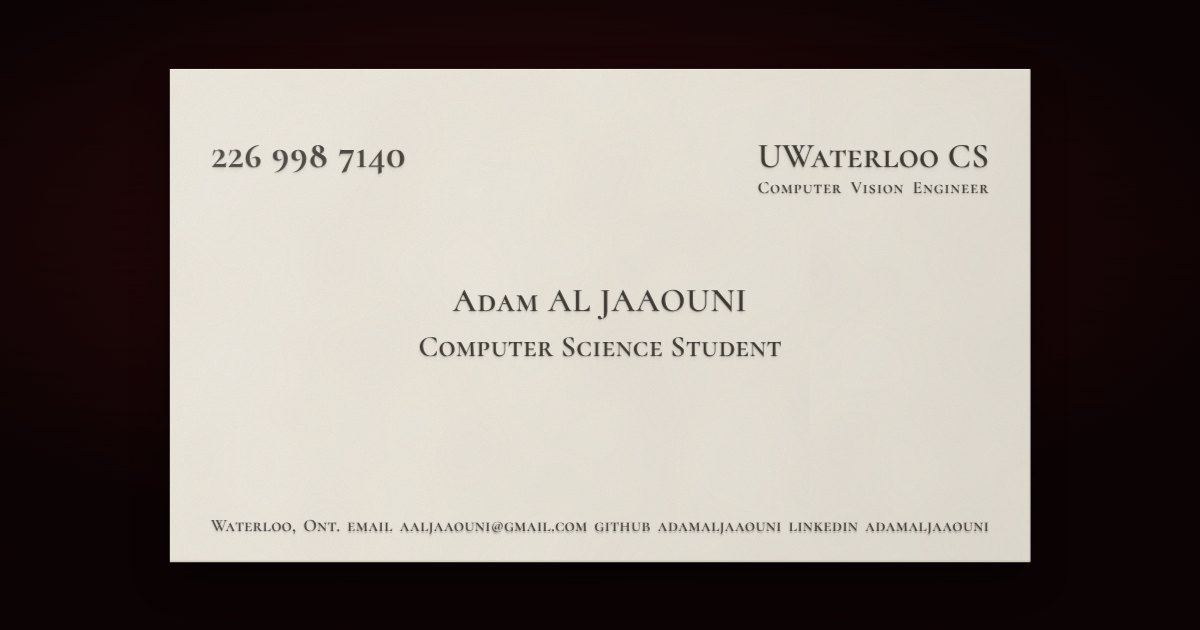
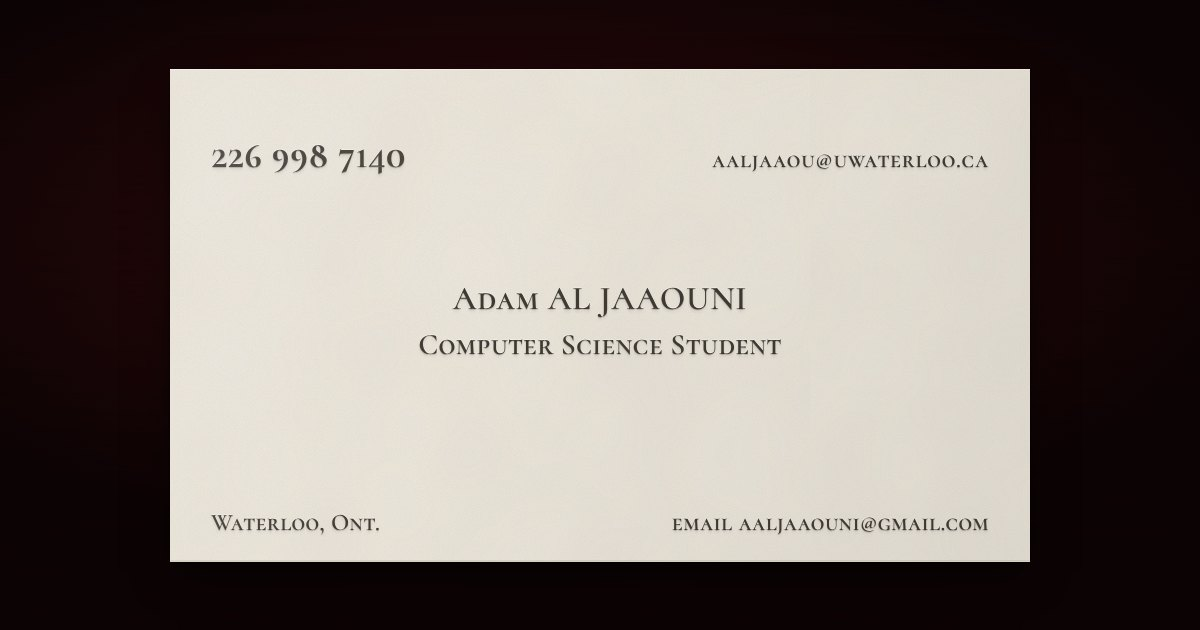
Put UWaterloo email top right; drop GitHub and LinkedIn
- The top-right corner (the firm's spot on Bateman's card) now shows
  aaljaaou@uwaterloo.ca instead of "UWaterloo CS / Computer Vision
  Engineer", sized so it doesn't outweigh the name.
- The bottom line drops the GitHub and LinkedIn links, leaving
  "Waterloo, Ont." and the Gmail address. With so little text it is set
  as two corners (city left, email right) instead of a justified line,
  echoing the top row.
- Re-centre the name block to the film card's proportions now that the
  top-right is a single line.
- Update the noscript fallback and regenerate the link-preview image.

Claude-Session: https://claude.ai/code/session_01Qbn2dEXcXHA3TEiaMxiFCK

Changed region(s): [[0.3392, 0.4524, 0.6475, 0.573], [0.1542, 0.8143, 0.8325, 0.8444], [0.5858, 0.2111, 0.8325, 0.3317]]

diff --git a/src/App.css b/src/App.css
@@ -158,14 +158,14 @@
 }
 
 /* ------------------------------------------------------------------ front
- * Proportions measured off Bateman's card: the name is no bigger than the
- * firm, the subtitle is set to the firm's exact width, and the contact line
- * runs margin to margin.
+ * Proportions measured off Bateman's card: the name is no bigger than what
+ * sits in the firm's spot (here, the UWaterloo email), and the bottom line
+ * spans margin to margin, echoing the top row.
  */
 
 .face--front {
   display: grid;
-  grid-template-rows: auto 17.5fr auto 31fr auto;
+  grid-template-rows: auto 20.5fr auto 28.5fr auto;
   padding: calc(20 * var(--pt)) calc(12 * var(--pt)) calc(7.6 * var(--pt));
   font-family: var(--font-card);
   font-weight: 600;
@@ -192,25 +192,11 @@
   white-space: nowrap;
 }
 
-/* Grid sized by the firm name alone; the subtitle stretches to that width. */
-.front-firm {
-  display: grid;
-  row-gap: calc(1.6 * var(--pt));
-}
-
-.front-firm-name {
-  font-size: calc(10.2 * var(--pt));
+/* Sized to sit in the firm's corner without outweighing the name. */
+.front-email {
+  font-size: calc(7 * var(--pt));
+  letter-spacing: 0.03em;
   white-space: nowrap;
-}
-
-.front-firm-sub {
-  width: 0;
-  min-width: 100%;
-  font-size: calc(5.1 * var(--pt));
-  letter-spacing: 0.05em;
-  white-space: nowrap;
-  text-align: justify;
-  text-align-last: justify;
 }
 
 .front-name {
@@ -237,16 +223,19 @@
 
 .front-foot {
   grid-row: 5;
+  display: flex;
+  justify-content: space-between;
+  align-items: baseline;
+  gap: calc(8 * var(--pt));
   font-style: normal;
-  font-size: calc(5.2 * var(--pt));
+  font-size: calc(7 * var(--pt));
   white-space: nowrap;
-  text-align: justify;
-  text-align-last: justify;
 }
 
 /* Bigger hit area for the small contact links without moving the layout. */
 .front-foot a,
-.front-phone {
+.front-phone,
+.front-email {
   padding-block: 0.35em;
   margin-block: -0.35em;
 }
@@ -419,16 +408,14 @@
     align-self: flex-start;
   }
 
-  .front-firm {
+  .front-email {
     align-self: flex-end;
   }
 
   .front-foot {
-    display: flex;
     flex-direction: column;
     align-items: flex-start;
     gap: calc(2.6 * var(--pt));
-    font-size: calc(6.6 * var(--pt));
   }
 
   .face--back {

diff --git a/src/components/CardFront.jsx b/src/components/CardFront.jsx
@@ -1,4 +1,3 @@
-import { Fragment } from "react";
 import { card, links } from "../data";
 
 export default function CardFront({ headingRef }) {
@@ -8,10 +7,9 @@ export default function CardFront({ headingRef }) {
         <a className="front-phone" href={links.phone}>
           {card.phone}
         </a>
-        <p className="front-firm">
-          <span className="front-firm-name">{card.firm}</span>
-          <span className="front-firm-sub">{card.firmSubtitle}</span>
-        </p>
+        <a className="front-email" href={links.uwEmail}>
+          {card.uwEmail}
+        </a>
       </div>
 
       <div className="front-name">
@@ -24,16 +22,9 @@ export default function CardFront({ headingRef }) {
 
       <address className="front-foot">
         <span>{card.city}</span>{" "}
-        {card.contacts.map(({ label, text, href }) => (
-          <Fragment key={label}>
-            <a
-              href={href}
-              {...(href.startsWith("http") && { target: "_blank", rel: "noopener" })}
-            >
-              {label} {text}
-            </a>{" "}
-          </Fragment>
-        ))}
+        <a href={card.contact.href}>
+          {card.contact.label} {card.contact.text}
+        </a>
       </address>
     </>
   );

diff --git a/src/data.js b/src/data.js
@@ -9,8 +9,7 @@
 export const links = {
   phone: "tel:+12269987140",
   email: "mailto:aaljaaouni@gmail.com",
-  github: "https://github.com/AdamAlJaaouni",
-  linkedin: "https://www.linkedin.com/in/adamaljaaouni/",
+  uwEmail: "mailto:aaljaaou@uwaterloo.ca",
   // Relative to the site root; resolved with import.meta.env.BASE_URL.
   resumePdf: "Adam-Al-Jaaouni-Resume.pdf"
 };
@@ -19,17 +18,12 @@ export const links = {
 // Strings stay in natural case: Cormorant SC draws lowercase as small caps.
 export const card = {
   phone: "226\u00a0998\u00a07140",
-  firm: "UWaterloo CS",
-  firmSubtitle: "Computer Vision Engineer",
+  uwEmail: "aaljaaou@uwaterloo.ca", // top right, where the film has the firm
   firstName: "Adam",
   lastName: "Al\u00a0Jaaouni",
   title: "Computer Science Student",
   city: "Waterloo, Ont.",
-  contacts: [
-    { label: "email", text: "aaljaaouni@gmail.com", href: links.email },
-    { label: "github", text: "adamaljaaouni", href: links.github },
-    { label: "linkedin", text: "adamaljaaouni", href: links.linkedin }
-  ]
+  contact: { label: "email", text: "aaljaaouni@gmail.com", href: links.email }
 };
 
 // Back of the card: experience only. Projects, skills and education live in

diff --git a/index.html b/index.html
@@ -29,12 +29,11 @@
     <noscript>
       <main style="max-width: 32rem; margin: 15vh auto; padding: 0 16px; color: #eee9df; font-family: Garamond, 'Times New Roman', serif; line-height: 1.5">
         <h1 style="font-weight: 600">Adam Al Jaaouni</h1>
-        <p>Computer Science Student, University of Waterloo · Computer Vision Engineer</p>
+        <p>Computer Science Student, University of Waterloo</p>
         <p>
           <a style="color: inherit" href="tel:+12269987140">226 998 7140</a> ·
-          <a style="color: inherit" href="mailto:aaljaaouni@gmail.com">aaljaaouni@gmail.com</a> ·
-          <a style="color: inherit" href="https://github.com/AdamAlJaaouni">GitHub</a> ·
-          <a style="color: inherit" href="https://www.linkedin.com/in/adamaljaaouni/">LinkedIn</a>
+          <a style="color: inherit" href="mailto:aaljaaou@uwaterloo.ca">aaljaaou@uwaterloo.ca</a> ·
+          <a style="color: inherit" href="mailto:aaljaaouni@gmail.com">aaljaaouni@gmail.com</a>
         </p>
         <p><a style="color: inherit" href="/Adam-Al-Jaaouni-Resume.pdf">Résumé (PDF)</a></p>
       </main>
